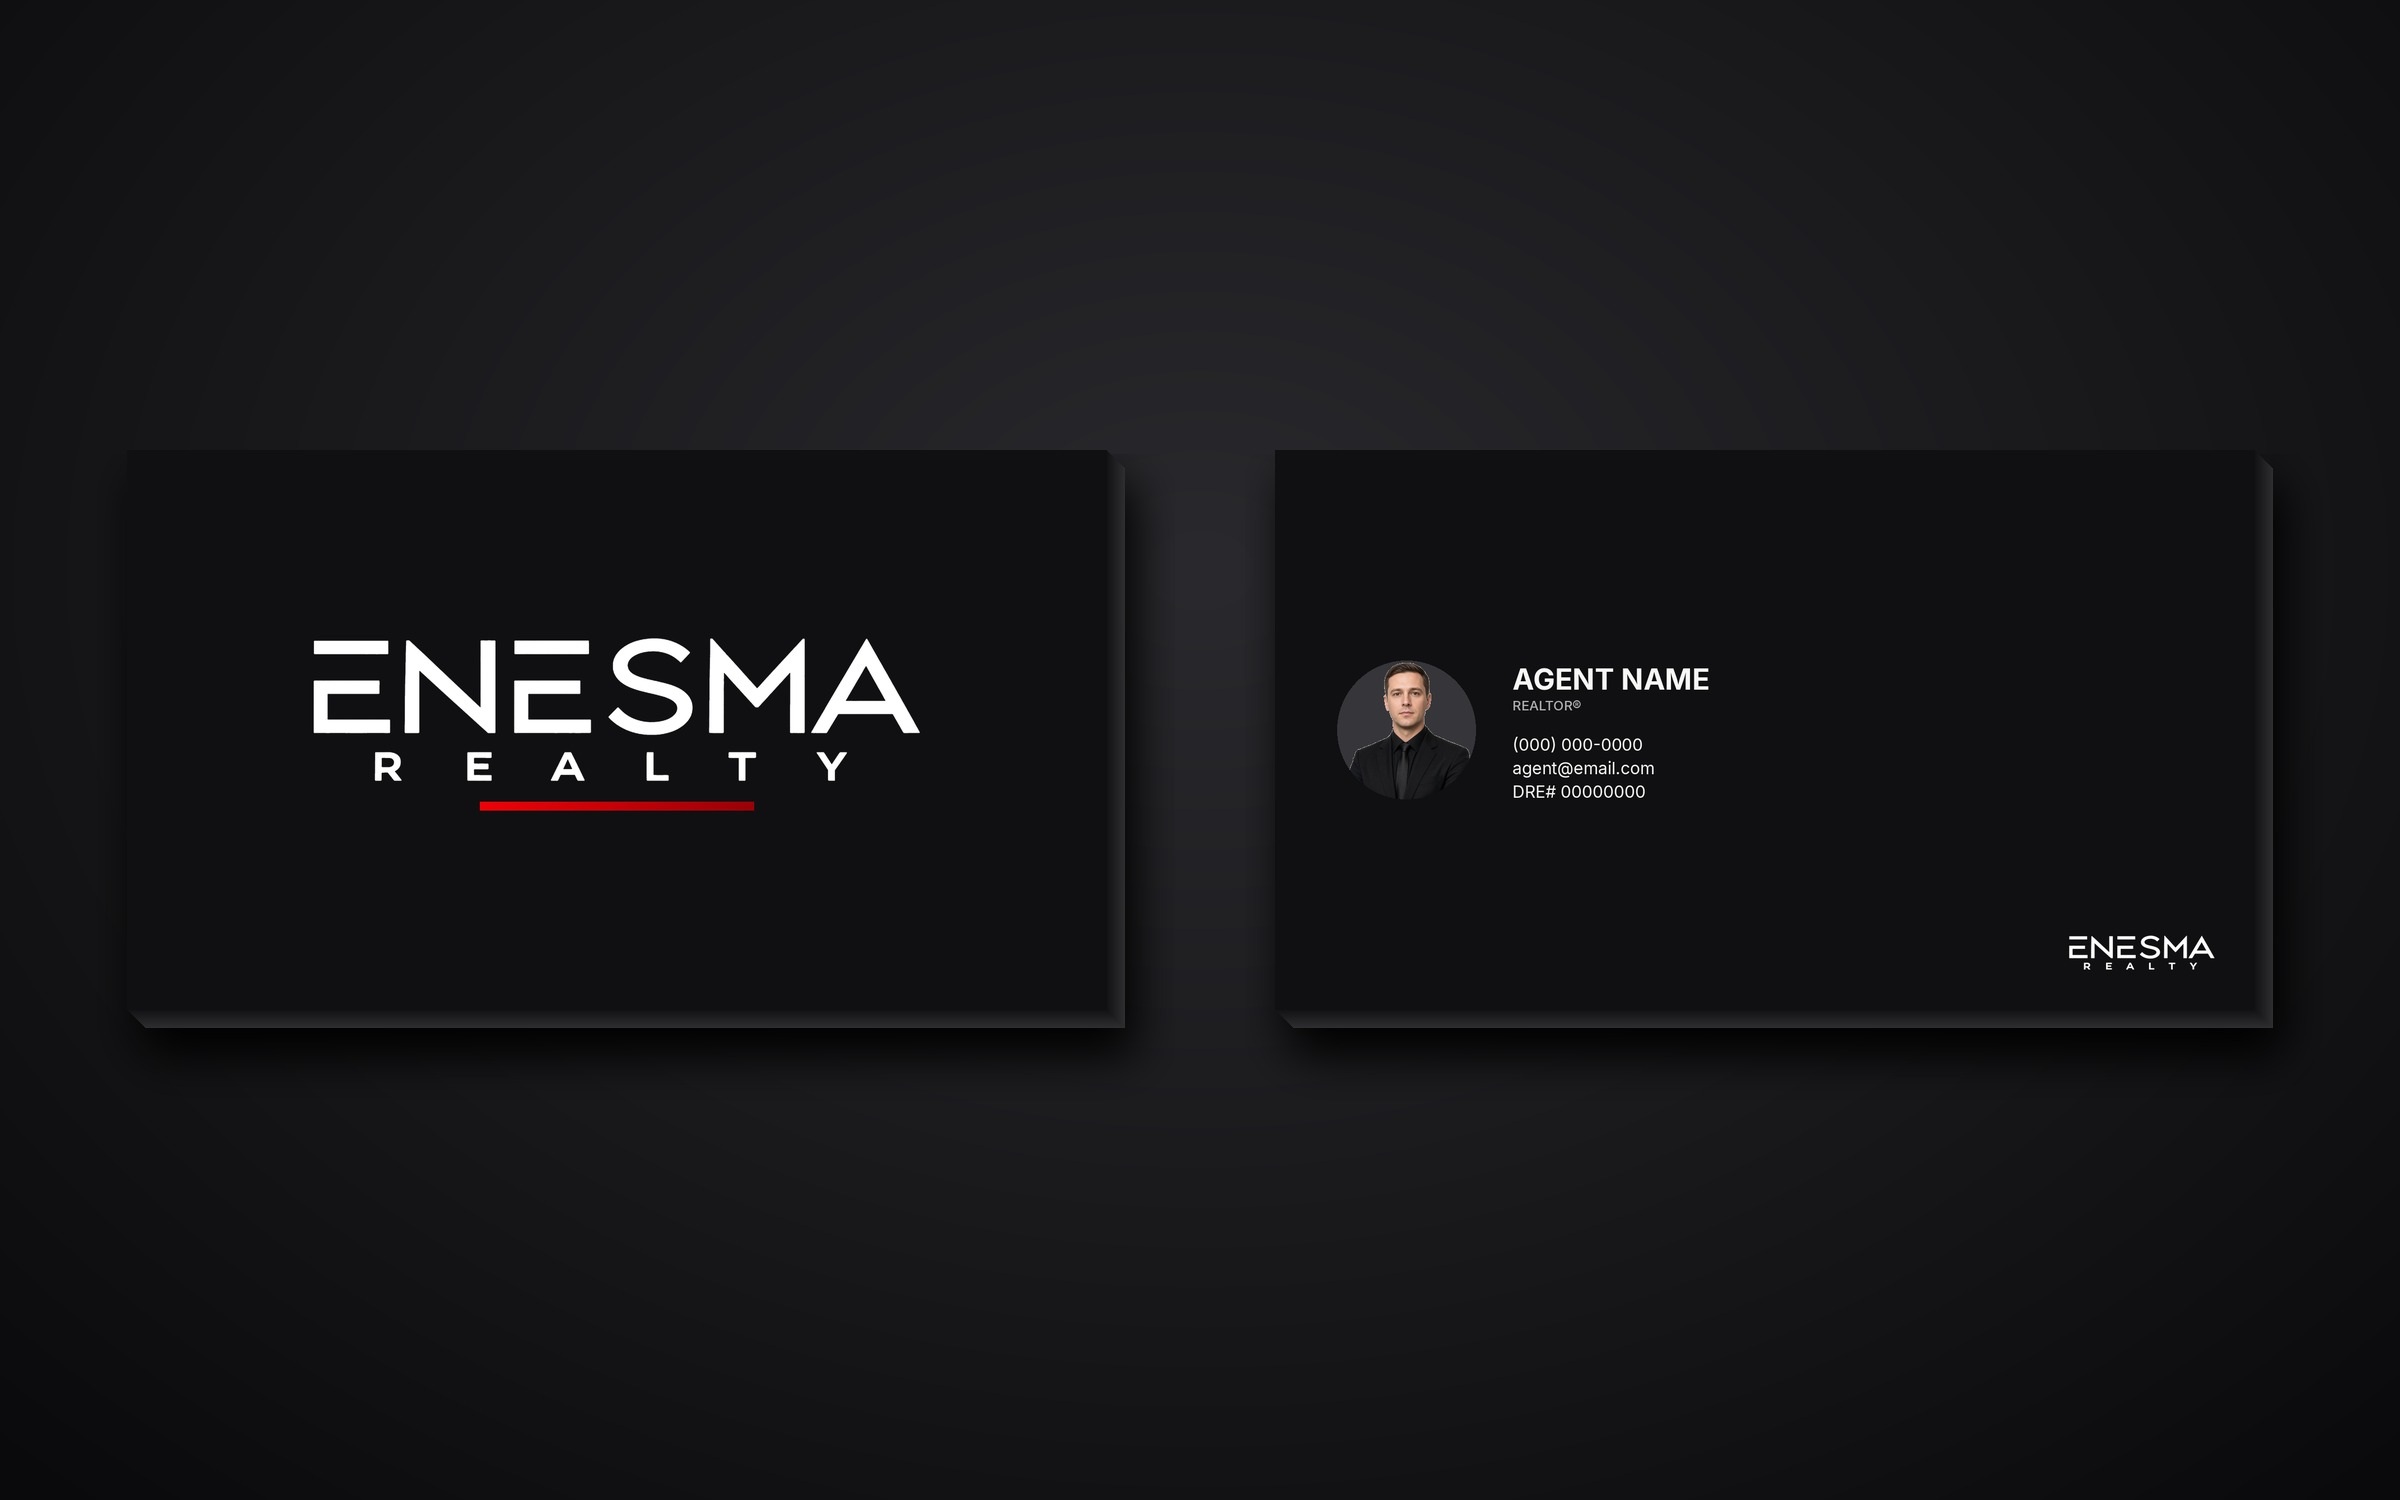
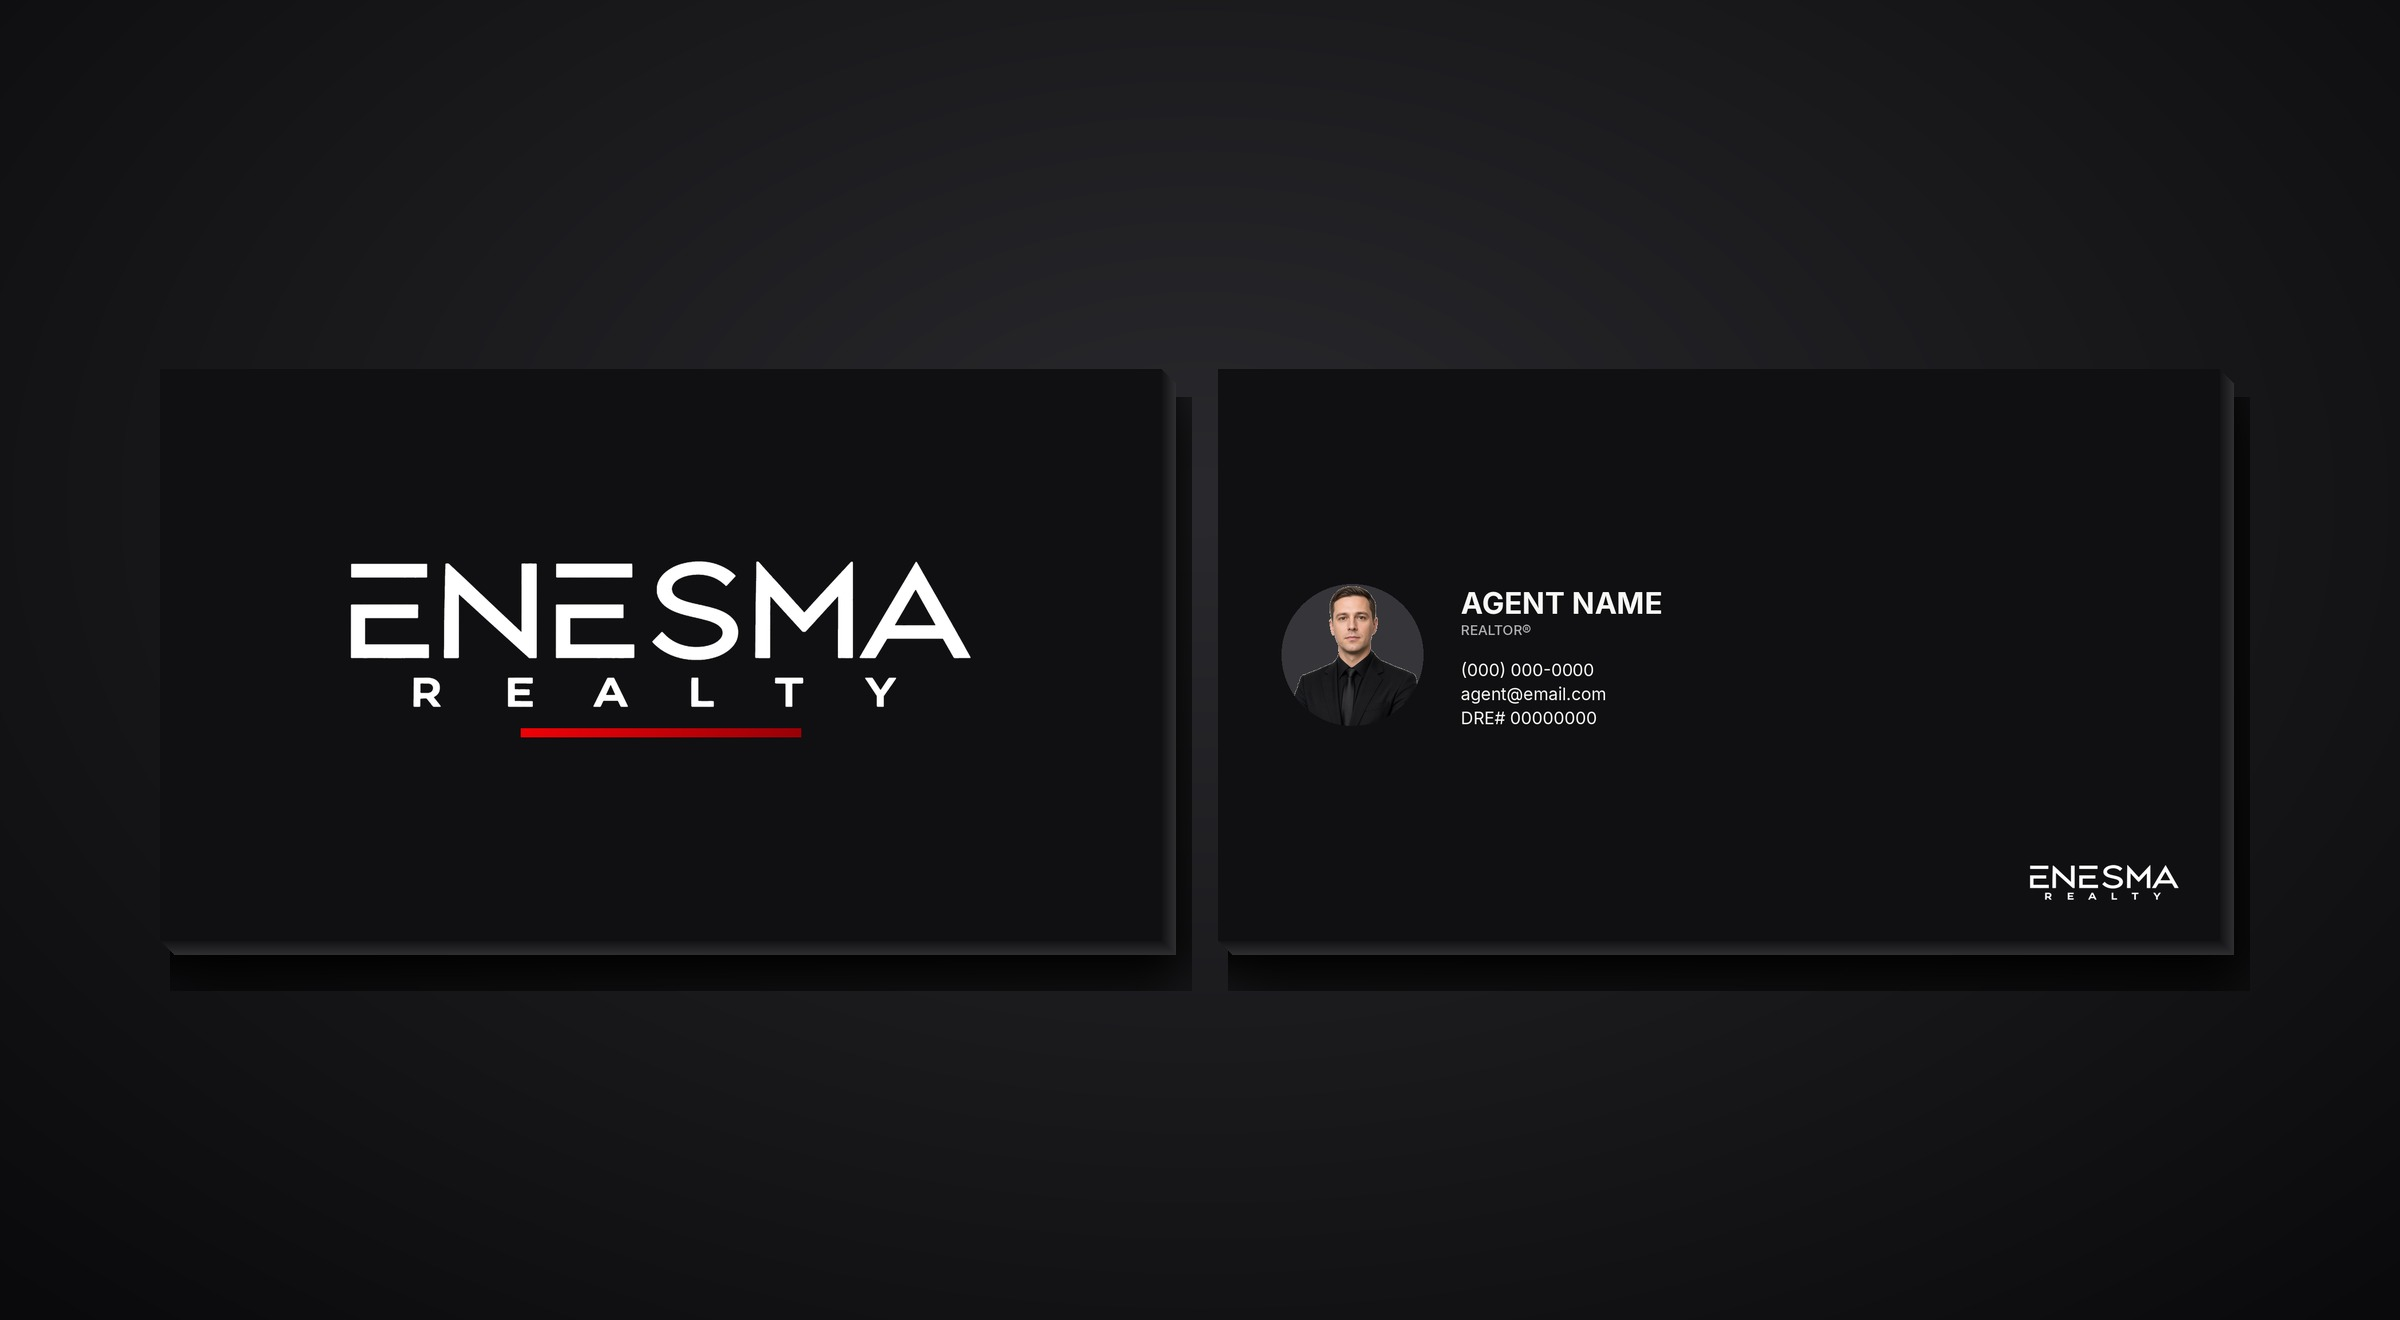
Clean the closet silhouettes and tighten the phone and cards.
The hanger body no longer shows through the quarter-zip or the tee back. The shelf is shorter and centered, the phone closet sits under the heading, and the card pair fills most of the product image.

diff --git a/js/closet.js b/js/closet.js
@@ -6,9 +6,9 @@ const Cat = window.ShopCatalog;
 const Cart = window.ShopCart;
 
 const SPECS = [
-  { sku: 't-shirt', hang: 't-shirt', tall: 0.98, shelf: false, bulge: 0.05, thick: 0.02 },
-  { sku: 'polo', hang: 'polo', tall: 1.02, shelf: false, bulge: 0.046, thick: 0.02 },
-  { sku: 'quarter-zip', hang: 'quarter-zip', tall: 1.0, shelf: false, bulge: 0.046, thick: 0.02 },
+  { sku: 't-shirt', hang: 't-shirt', tall: 0.98, shelf: false, bulge: 0.05, thick: 0.006 },
+  { sku: 'polo', hang: 'polo', tall: 1.02, shelf: false, bulge: 0.046, thick: 0.006 },
+  { sku: 'quarter-zip', hang: 'quarter-zip', tall: 1.0, shelf: false, bulge: 0.046, thick: 0.006 },
   { sku: 'cap', hang: 'cap', tall: 0.24, shelf: true, bulge: 0.018, thick: 0.014, angle: 0.28 }
 ];
 
@@ -135,9 +135,19 @@ function boot() {
         if (y > maxY) maxY = y;
       }
     }
-    for (let i = 1; i < samples.length - 1; i++) {
-      samples[i].l = (samples[i - 1].l + samples[i].l * 2 + samples[i + 1].l) / 4;
-      samples[i].r = (samples[i - 1].r + samples[i].r * 2 + samples[i + 1].r) / 4;
+    for (let pass = 0; pass < 3; pass++) {
+      for (let i = 1; i < samples.length; i++) {
+        const prev = samples[i - 1];
+        const jump = 6;
+        samples[i].l = Math.max(prev.l - jump, Math.min(prev.l + jump, samples[i].l));
+        samples[i].r = Math.max(prev.r - jump, Math.min(prev.r + jump, samples[i].r));
+      }
+      for (let i = samples.length - 2; i >= 0; i--) {
+        const next = samples[i + 1];
+        const jump = 6;
+        samples[i].l = Math.max(next.l - jump, Math.min(next.l + jump, samples[i].l));
+        samples[i].r = Math.max(next.r - jump, Math.min(next.r + jump, samples[i].r));
+      }
     }
     const opaque = Math.max(1, maxY - minY);
     const worldH = spec.tall * (ih / opaque);
@@ -167,7 +177,7 @@ function boot() {
       const vNorm = (s.y - minY) / opaque;
       for (let i = 0; i <= cols; i++) {
         const t = i / cols;
-        const inset = Math.min(4, (s.r - s.l) * 0.03);
+        const inset = Math.min(3, (s.r - s.l) * 0.02);
         const px = (s.l + inset) + (s.r - s.l - inset * 2) * t;
         const u = px / iw;
         const v = 1 - (s.y + 0.5) / ih;
@@ -215,11 +225,11 @@ function boot() {
       }
       return sum / Math.max(1, n) < 1.5 ? dark : light;
     }
-    function addLip(a, b, outward, color) {
+    function addLip(a, b, outward, color, force) {
       const dx = b.x - a.x;
       const dy = b.y - a.y;
-      if (Math.hypot(dx, dy) < 0.0008 || Math.hypot(dx, dy) > 0.05) return;
-      if (Math.abs(dx) > Math.abs(dy) * 0.35) return;
+      if (Math.hypot(dx, dy) < 0.0004) return;
+      if (!force && Math.hypot(dx, dy) > 0.12) return;
       const segs = 4;
       const rings = [[], []];
       [a, b].forEach(function (p, pi) {
@@ -249,8 +259,21 @@ function boot() {
         backIdx.push(a.back[i], a.back[i + 1], b.back[i], a.back[i + 1], b.back[i + 1], b.back[i]);
       }
       const cloth = clothAt(a);
-      addLip(pointAt(a, 0), pointAt(b, 0), -1, cloth);
-      addLip(pointAt(a, cols), pointAt(b, cols), 1, cloth);
+      addLip(pointAt(a, 0), pointAt(b, 0), -1, cloth, false);
+      addLip(pointAt(a, cols), pointAt(b, cols), 1, cloth, false);
+    }
+    function seal(row) {
+      const cloth = clothAt(row);
+      const n = 12;
+      for (let i = 0; i < n; i++) {
+        const i0 = Math.round(cols * i / n);
+        const i1 = Math.round(cols * (i + 1) / n);
+        addLip(pointAt(row, i0), pointAt(row, i1), 0, cloth, true);
+      }
+    }
+    if (rows.length) {
+      seal(rows[0]);
+      seal(rows[rows.length - 1]);
     }
     function geo(pos, uv, idx, colors) {
       const g = new THREE.BufferGeometry();
@@ -284,7 +307,7 @@ function boot() {
     const frontMesh = new THREE.Mesh(geo(frontPos, frontUv, frontIdx), frontMat);
     const backMesh = new THREE.Mesh(geo(backPos, backUv, backIdx), backMat);
     const edgeMesh = new THREE.Mesh(geo(edgePos, null, edgeIdx, edgeCol), edgeMat);
-    [frontMesh, backMesh, edgeMesh].forEach(function (mesh) {
+    [frontMesh, backMesh].forEach(function (mesh) {
       mesh.castShadow = false;
       mesh.receiveShadow = false;
       group.add(mesh);
@@ -297,21 +320,7 @@ function boot() {
 
   function makeHanger() {
     const g = new THREE.Group();
-    const shape = new THREE.Shape();
-    shape.moveTo(-0.23, -0.012);
-    shape.bezierCurveTo(-0.14, 0.1, 0.14, 0.1, 0.23, -0.012);
-    shape.lineTo(0.21, -0.034);
-    shape.bezierCurveTo(0.1, 0.062, -0.1, 0.062, -0.21, -0.034);
-    shape.closePath();
-    const bodyGeo = new THREE.ExtrudeGeometry(shape, {
-      depth: 0.018, bevelEnabled: true, bevelThickness: 0.0035, bevelSize: 0.0035, bevelSegments: 2, curveSegments: 18
-    });
-    bodyGeo.translate(0, 0, -0.009);
-    const bodyMat = velvet.clone();
     const hookMat = gold.clone();
-    const body = new THREE.Mesh(bodyGeo, bodyMat);
-    const bar = new THREE.Mesh(new THREE.BoxGeometry(0.4, 0.009, 0.012), bodyMat);
-    bar.position.set(0, -0.026, 0);
     const curve = new THREE.CatmullRomCurve3([
       new THREE.Vector3(0, 0.075, 0),
       new THREE.Vector3(0, 0.13, 0),
@@ -321,9 +330,9 @@ function boot() {
       new THREE.Vector3(0.05, 0.132, 0)
     ]);
     const hook = new THREE.Mesh(new THREE.TubeGeometry(curve, 40, 0.011, 16, false), hookMat);
-    const neck = new THREE.Mesh(new THREE.CylinderGeometry(0.011, 0.011, 0.028, 16), hookMat);
-    neck.position.y = 0.06;
-    g.add(body, bar, hook, neck);
+    const neck = new THREE.Mesh(new THREE.CylinderGeometry(0.008, 0.008, 0.05, 12), hookMat);
+    neck.position.y = 0.05;
+    g.add(hook, neck);
     g.traverse(function (obj) { if (obj.isMesh) obj.castShadow = true; });
     g.scale.setScalar(1.35);
     g.position.y = -0.25;
@@ -351,7 +360,7 @@ function boot() {
   }
 
   const pieces = [];
-  const shelfW = SPACING * 2 + 0.55;
+  const shelfW = railLen * 0.4;
   const shelfD = 0.2;
   const shelfT = 0.012;
   const shelfY = RAIL_Y + 0.52;
@@ -377,7 +386,7 @@ function boot() {
   shelfShade.rotation.x = -Math.PI / 2;
   shelfShade.position.set(rackCenter, shelfY - shelfT / 2 - 0.004, shelfZ + 0.02);
   scene.add(shelfShade);
-  const capX = rackCenter + shelfW * 0.28;
+  const capX = rackCenter;
 
   Promise.all(SPECS.map(async function (spec, index) {
     const colors = {};
@@ -501,10 +510,19 @@ function boot() {
     const aspect = stage.clientWidth / Math.max(1, stage.clientHeight);
     camera.aspect = aspect;
     const half = Math.tan((camera.fov * Math.PI / 180) / 2);
-    const span = mode === 'detail' && aspect < 1 ? 1.7 : SPACING * 2 + 1.85;
-    const z = Math.max(3.2, (span / Math.max(0.5, aspect)) / (2 * half));
-    camera.position.set(rackCenter, 0.42, z);
-    camera.lookAt(rackCenter, 0.16, 0);
+    const phone = aspect < 0.95;
+    const span = mode === 'detail' && phone ? 1.45 : phone ? SPACING * 2 + 0.95 : SPACING * 2 + 1.85;
+    const z = Math.max(phone ? 2.4 : 3.2, (span / Math.max(0.45, aspect)) / (2 * half));
+    let lookY = 0.16;
+    let camY = 0.42;
+    if (phone && mode !== 'detail') {
+      const halfH = z * half;
+      const top = shelfY + shelfT + 0.08;
+      lookY = top - halfH * 0.86;
+      camY = lookY;
+    }
+    camera.position.set(rackCenter, camY, z);
+    camera.lookAt(rackCenter, lookY, 0);
     camera.updateProjectionMatrix();
     renderer.setPixelRatio(Math.min(window.devicePixelRatio || 1, 2));
     renderer.setSize(stage.clientWidth, stage.clientHeight);

diff --git a/css/shop.css b/css/shop.css
@@ -200,7 +200,7 @@ h1, h2, h3, p { text-wrap: pretty; }
 
 .hp { position: absolute; left: -9999px; height: 0; overflow: hidden; }
 
-.closet { display: flex; flex-direction: column; min-height: calc(100vh - var(--header)); background: #e6dfd4; color: #141418; }
+.closet { position: relative; display: flex; flex-direction: column; min-height: calc(100vh - var(--header)); background: #e6dfd4; color: #141418; }
 .stage { position: relative; height: 70vh; min-height: 420px; background: #e6dfd4; }
 .closet-headline {
   position: absolute; z-index: 2; left: 22px; top: 28px; max-width: 11ch;
@@ -264,7 +264,12 @@ h1, h2, h3, p { text-wrap: pretty; }
 
 @media (max-width: 759px) {
   .drawer { width: 100%; }
-  .closet-headline { top: auto; bottom: 18px; font-size: 28px; text-shadow: 0 1px 0 #f4f2ee; }
+  .closet { height: calc(100dvh - var(--header)); min-height: 0; overflow: hidden; }
+  .closet-headline {
+    position: relative; top: auto; left: auto; bottom: auto;
+    margin: 10px 16px 0; max-width: 14ch; font-size: 26px;
+  }
+  .stage { flex: 1; height: auto; min-height: 0; }
   .closet.detail { flex-direction: column; }
   .closet.detail .stage { height: 54vh; min-height: 320px; flex: none; }
   .closet.detail .sheet {

diff --git a/js/main.js b/js/main.js
@@ -296,7 +296,7 @@
       document.title = 'Gear · ENESMA Shop';
       var stage = document.createElement('div');
       stage.className = 'closet';
-      stage.innerHTML = '<div class="stage" id="stage"><h1 class="closet-headline" id="closetHeadline">ENESMA Gear. Built For Agents.</h1><div class="pill" id="pill" hidden></div></div><aside class="sheet" id="sheet" hidden></aside>';
+      stage.innerHTML = '<h1 class="closet-headline" id="closetHeadline">ENESMA Gear. Built For Agents.</h1><div class="stage" id="stage"><div class="pill" id="pill" hidden></div></div><aside class="sheet" id="sheet" hidden></aside>';
       UI.$('#content').appendChild(stage);
       import(window.SHOP_BASE + 'js/closet.js').catch(function () { showFallback(); });
     } else if (page === 'admin') {

diff --git a/js/catalog.js b/js/catalog.js
@@ -123,7 +123,7 @@
         category: 'cards',
         name: 'Business Cards',
         detail: 'Set Of 1,000',
-        image: { w: 2400, h: 1500 },
+        image: { w: 2400, h: 1320 },
         blurb: 'A set of 1,000 business cards, printed with your photo and contact details.',
         price: 57,
         sizes: false,

diff --git a/scripts/cards_art.py b/scripts/cards_art.py
@@ -110,31 +110,31 @@ def radial_stage(w, h):
     return Image.fromarray(rgb.astype(np.uint8), "RGB")
 
 
-def card_sprite(face, thick=16):
+def card_sprite(face, thick=14):
     """A 3.5×2 card with a thin stock edge and a soft drop shadow."""
     face = face.convert("RGBA")
     w, h = face.size
-    canvas = Image.new("RGBA", (w + thick + 80, h + thick + 90), (0, 0, 0, 0))
-    edge = Image.new("RGBA", (w, h), (22, 22, 24, 255))
+    canvas = Image.new("RGBA", (w + thick + 6, h + thick + 8), (0, 0, 0, 0))
     for i in range(thick, 0, -1):
         shade = 18 + int(28 * (i / thick))
         edge = Image.new("RGBA", (w, h), (shade, shade, shade + 2, 255))
-        canvas.alpha_composite(edge, (40 + i, 24 + i))
-    canvas.alpha_composite(face, (40, 24))
+        canvas.alpha_composite(edge, (i, i))
+    canvas.alpha_composite(face, (0, 0))
     return canvas
 
 
 def studio_pair(front_im, back_im):
-    stage = radial_stage(2400, 1500).convert("RGBA")
-    card_w = 980
+    stage_w, stage_h = 2400, 1320
+    stage = radial_stage(stage_w, stage_h).convert("RGBA")
+    gap = 36
+    card_w = int((stage_w * 0.85 - gap) / 2)
     sprites = []
     for im in (front_im, back_im):
         face = im.convert("RGBA").resize((card_w, int(card_w * im.height / im.width)), Image.Resampling.LANCZOS)
-        sprites.append(card_sprite(face, 18))
-    gap = 70
+        sprites.append(card_sprite(face, 14))
     total = sprites[0].width + gap + sprites[1].width
     x = (stage.width - total) // 2
-    y = (stage.height - sprites[0].height) // 2 + 10
+    y = (stage.height - sprites[0].height) // 2 + 6
     for sprite, dx in ((sprites[0], 0), (sprites[1], sprites[0].width + gap)):
         shadow = Image.new("RGBA", sprite.size, (0, 0, 0, 0))
         alpha = sprite.split()[-1].filter(ImageFilter.GaussianBlur(22))
